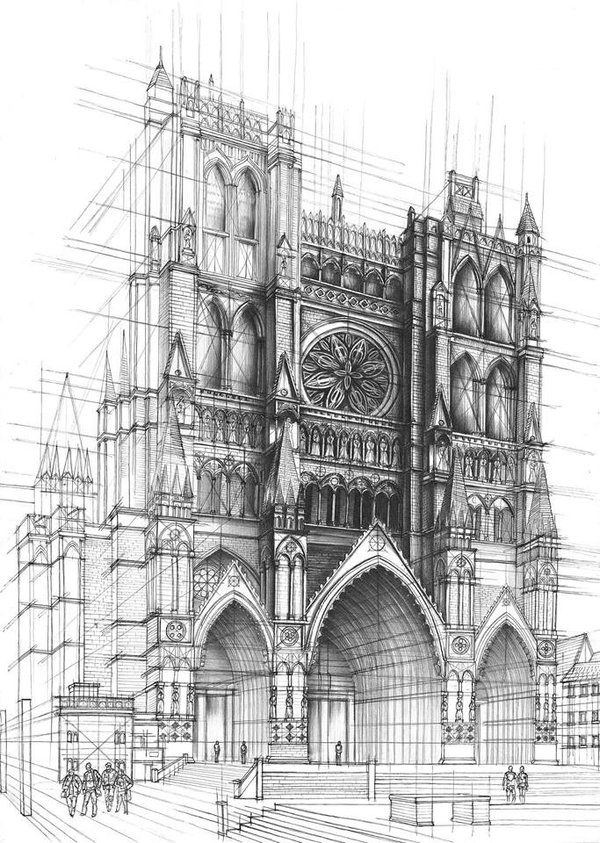
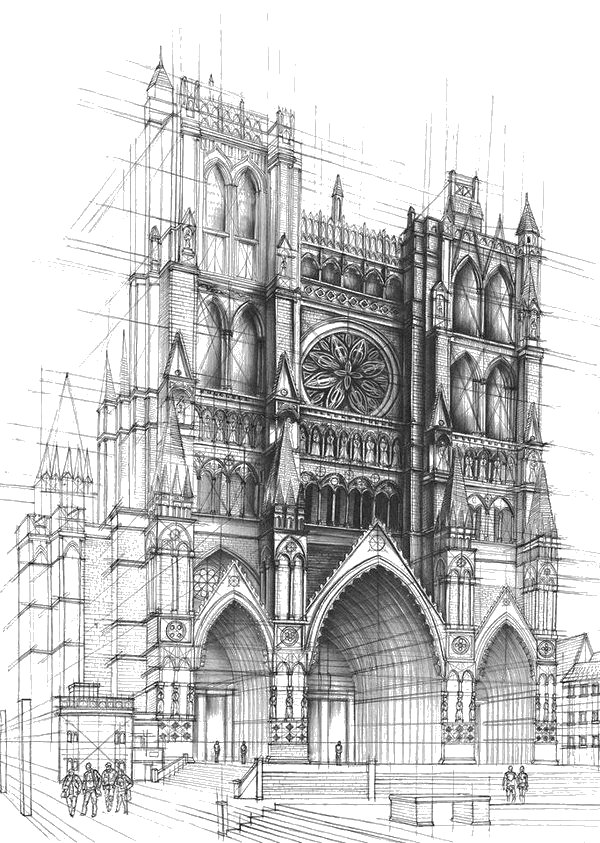
Add files via upload

diff --git a/style.css b/style.css
@@ -464,12 +464,19 @@ body.home .site-header:not(.is-scrolled) .logo-sub{
   max-height:clamp(280px,30vw,420px);
   object-fit:contain;
 }
-/* The About drawing is line art on a white background, so it was
-   showing as a white rectangle sitting on the grey panel. multiply
-   drops the white out and leaves only the pencil lines — no box,
-   no border. Not applied to Vision, which is a photograph. */
+/* The About drawing should read as printed on the page, not pasted on
+   top of it. Two things get it there:
+     · multiply, so the paper multiplies away against whatever is behind
+     · the file itself was levelled so the paper is pure 255. The original
+       scan sat around 240-250, which multiplied to a faint grey rectangle
+       with a hard edge — that edge was the giveaway.
+   The mask then feathers the outer edge so the frame has no boundary at
+   all. Not applied to Vision, which is a photograph. */
 .section--about .feature-band__media img{
   mix-blend-mode:multiply;
+  opacity:.94;
+  -webkit-mask-image:radial-gradient(closest-side, #000 78%, transparent 100%);
+  mask-image:radial-gradient(closest-side, #000 78%, transparent 100%);
 }
 .feature-band__body{
   display:flex; flex-direction:column; justify-content:center;
@@ -805,6 +812,9 @@ body.contact-page .contact-top{ background:transparent; }
   width:100%; height:100%;
   object-fit:cover;
   object-position:center top;
+  /* feathered, so the crop has no visible rectangular edge */
+  -webkit-mask-image:radial-gradient(115% 100% at 70% 30%, #000 52%, transparent 100%);
+  mask-image:radial-gradient(115% 100% at 70% 30%, #000 52%, transparent 100%);
 }
 body.contact-page > main,
 body.contact-page > footer{ position:relative; z-index:1; }

diff --git a/index.html b/index.html
@@ -25,7 +25,7 @@
 <link rel="icon" type="image/svg+xml" href="favicon.svg">
 <link rel="preload" href="Absans-Regular.woff2" as="font" type="font/woff2" crossorigin>
 <link rel="preload" href="NewsreaderText-Italic.woff" as="font" type="font/woff" crossorigin>
-<link rel="stylesheet" href="style.css?v=26">
+<link rel="stylesheet" href="style.css?v=27">
 </head>
 <body class="home">
 

diff --git a/contact.html b/contact.html
@@ -19,7 +19,7 @@
 
 <link rel="icon" type="image/svg+xml" href="favicon.svg">
 <link rel="preload" href="Absans-Regular.woff2" as="font" type="font/woff2" crossorigin>
-<link rel="stylesheet" href="style.css?v=26">
+<link rel="stylesheet" href="style.css?v=27">
 </head>
 <body class="contact-page">
 

diff --git a/projects.html b/projects.html
@@ -19,7 +19,7 @@
 
 <link rel="icon" type="image/svg+xml" href="favicon.svg">
 <link rel="preload" href="Absans-Regular.woff2" as="font" type="font/woff2" crossorigin>
-<link rel="stylesheet" href="style.css?v=26">
+<link rel="stylesheet" href="style.css?v=27">
 </head>
 <body>
 
